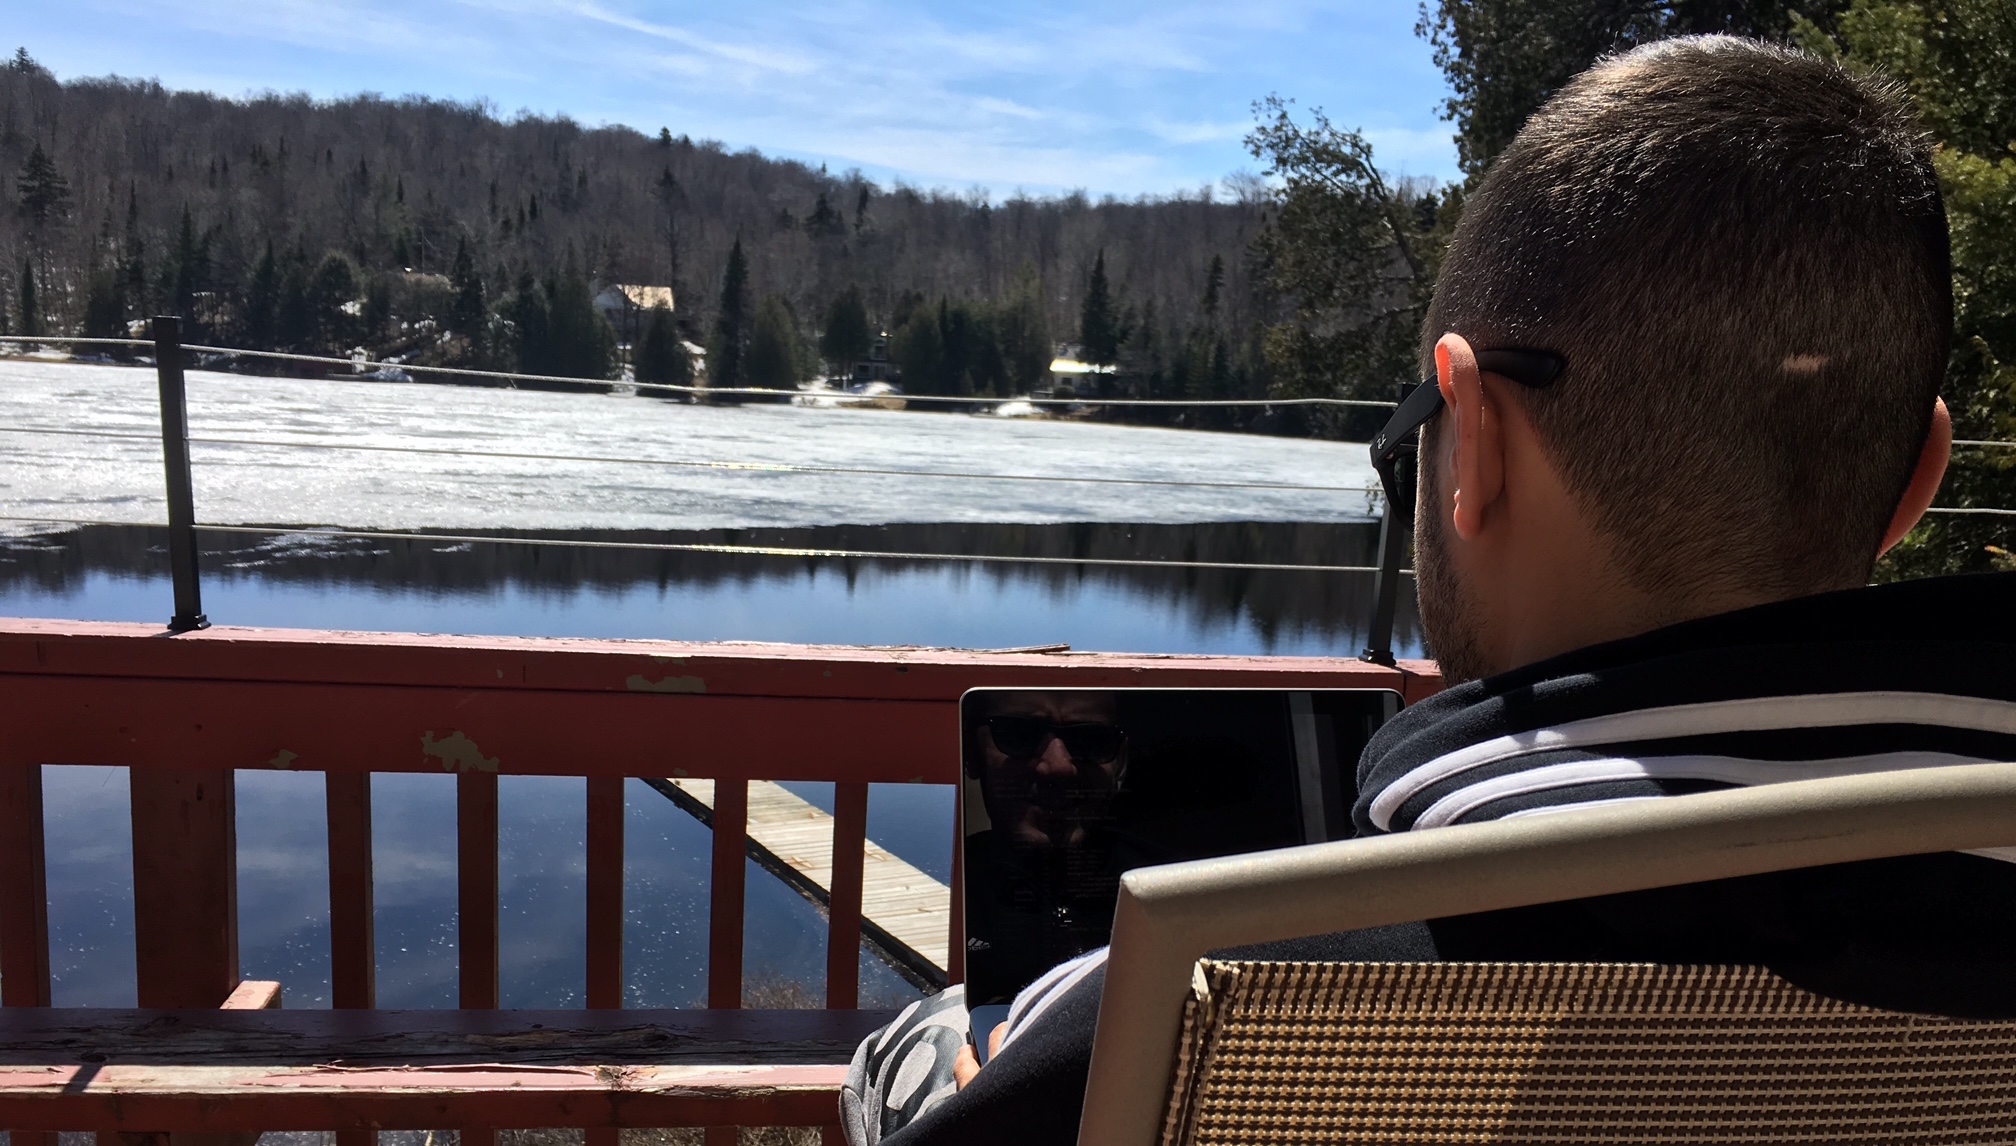
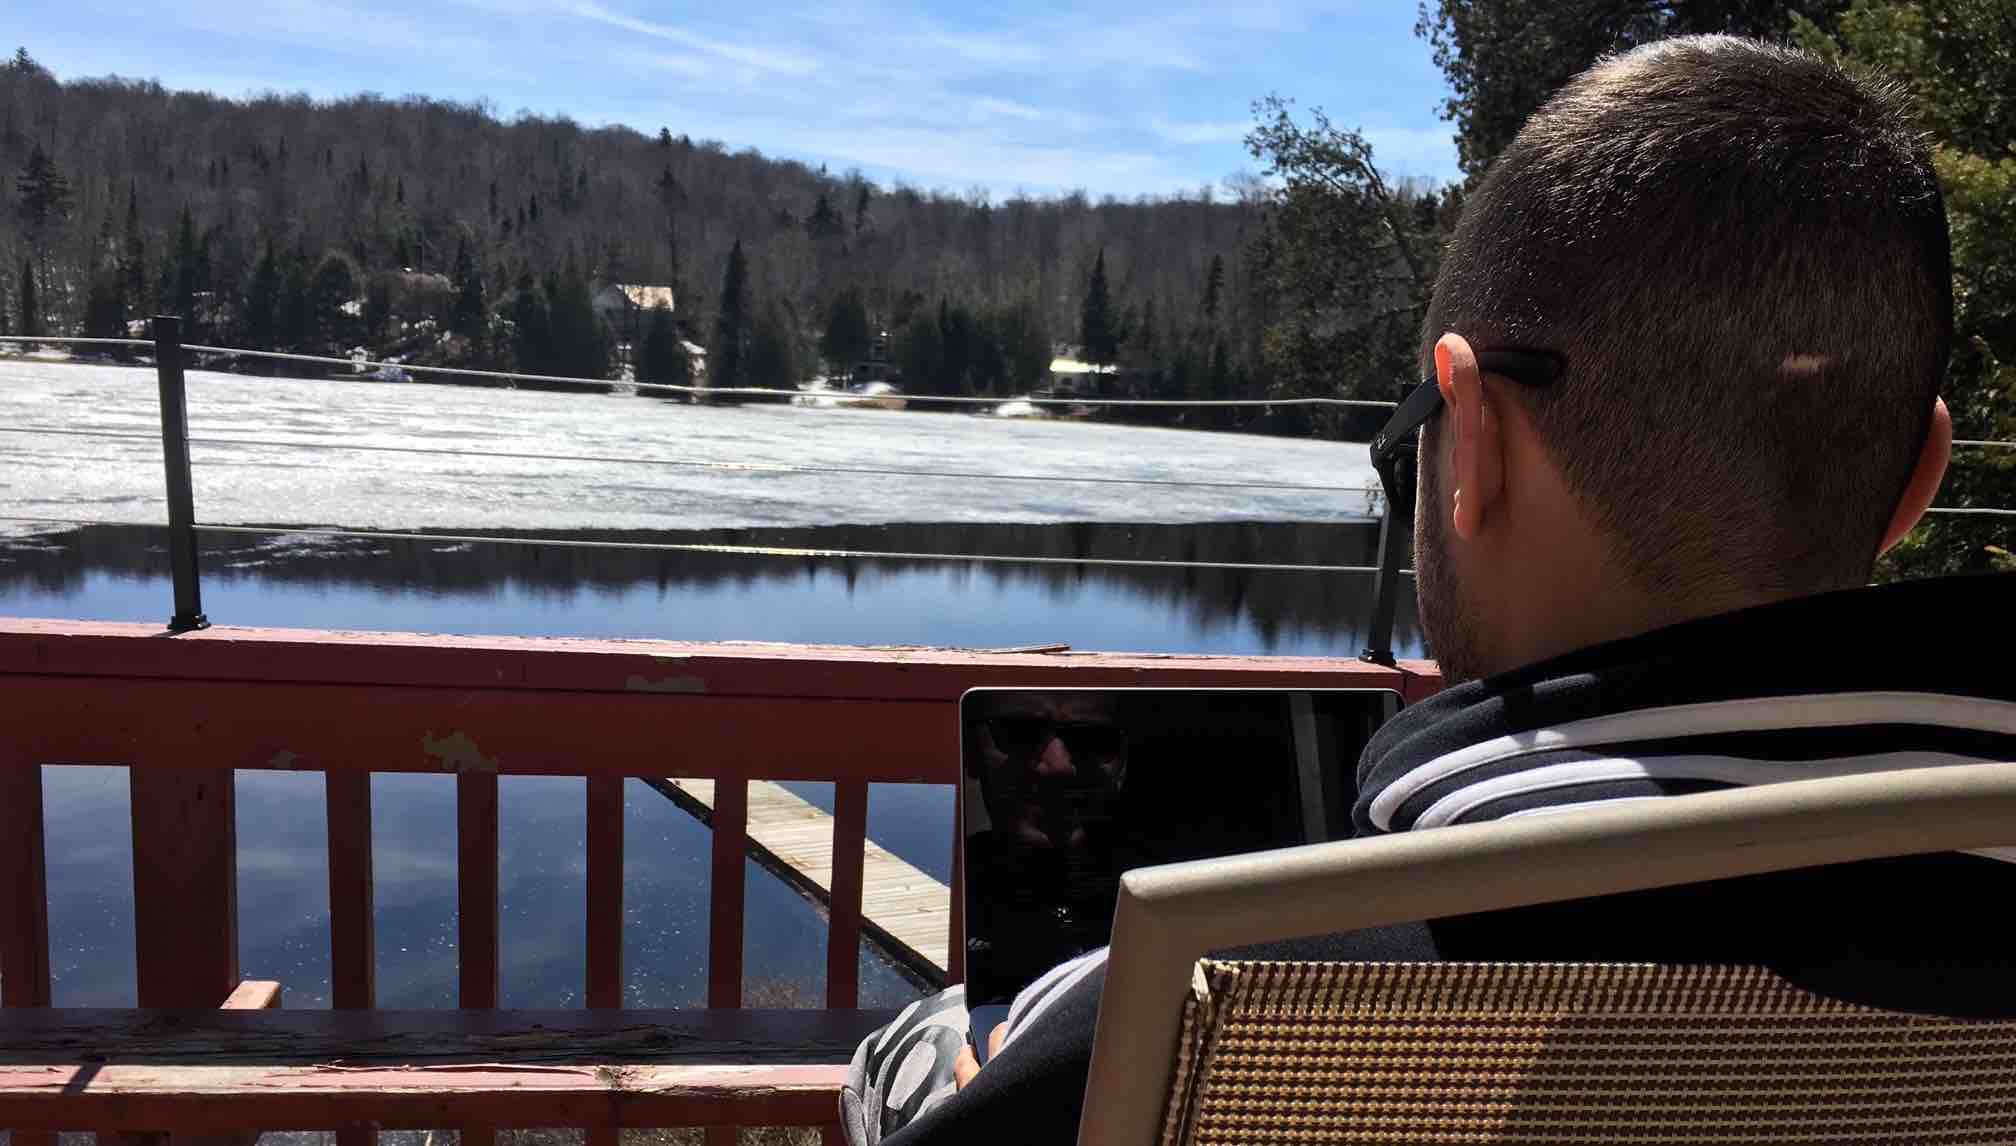
img resizing

diff --git a/js/viewport.js b/js/viewport.js
@@ -1,0 +1,182 @@
+/**
+ * @author  Mudit Ameta
+ * @license https://github.com/zeusdeux/isInViewport/blob/master/license.md MIT
+ */
+(function($, window) {
+
+  // polyfilling trim for ie < 9. sigh ;-;
+  if (!String.prototype.hasOwnProperty('trim')) {
+    String.prototype.trim = function() {
+      return this.replace(/^\s*(.*?)\s*$/, '$1');
+    };
+  }
+
+
+  // lets you chain any arbitrary function or an array of functions and returns a jquery object
+  var run = function(args) {
+    if (arguments.length === 1 && typeof args === 'function')
+      args = [args];
+
+    if (!(args instanceof Array))
+      throw new SyntaxError('isInViewport: Argument(s) passed to .do/.run should be a function or an array of functions');
+
+    for (var i = 0; i < args.length; i++) {
+      if (typeof args[i] !== 'function') {
+        console.warn('isInViewport: Argument(s) passed to .do/.run should be a function or an array of functions');
+        console.warn('isInViewport: Ignoring non-function values in array and moving on');
+        continue;
+      }
+      for (var j = 0; j < this.length; j++)
+        args[i].call($(this[j]));
+    }
+    return this;
+  };
+
+
+  // do is a reserved word and hence using it as a property throws on some browsers
+  // it is now aliased as $.fn.run
+  // deprecate $.fn.do (2.3.0)
+  $.fn['do'] = function(args) {
+    console.warn('isInViewport: .do is deprecated as it causes issues in IE and some browsers since it\'s a reserved word. Use $.fn.run instead i.e., $(el).run(fn).');
+    return run(args);
+  };
+  $.fn.run = run;
+
+
+  // gets the width of the scrollbar
+  function getScrollbarWidth(viewport) {
+    var scrollBarWidth;
+
+    // append a div that has 100% width to get true width of viewport
+    var el = $('<div></div>').css({
+      'width': '100%'
+    });
+    viewport.append(el);
+
+    // subtract true width from the viewport width which is inclusive
+    // of scrollbar by default
+    scrollBarWidth = viewport.width() - el.width();
+
+    // remove our element from DOM
+    el.remove();
+    return scrollBarWidth;
+  }
+
+
+  // Returns true if DOM element `element` is in viewport
+  function isInViewport(element, options) {
+    var boundingRect  = element.getBoundingClientRect();
+    var top           = boundingRect.top;
+    var bottom        = boundingRect.bottom;
+    var left          = boundingRect.left;
+    var right         = boundingRect.right;
+    var settings      = $.extend({
+      'tolerance': 0,
+      'viewport': window
+    }, options);
+    var isVisibleFlag = false;
+    var $viewport     = settings.viewport.jquery ? settings.viewport : $(settings.viewport);
+
+    if (!$viewport.length) {
+      console.warn('isInViewport: The viewport selector you have provided matches no element on page.');
+      console.warn('isInViewport: Defaulting to viewport as window');
+      $viewport = $(window);
+    }
+
+    var $viewportHeight = $viewport.height();
+    var $viewportWidth  = $viewport.width();
+    var typeofViewport  = $viewport[0].toString();
+
+    // if the viewport is other than window recalculate the top,
+    // bottom,left and right wrt the new viewport
+    // the [object DOMWindow] check is for window object type in PhantomJS
+    if ($viewport[0] !== window && typeofViewport !== '[object Window]' && typeofViewport !== '[object DOMWindow]') {
+      // Use getBoundingClientRect() instead of $.Offset()
+      // since the original top/bottom positions are calculated relative to browser viewport and not document
+      var viewportRect = $viewport[0].getBoundingClientRect();
+
+      // recalculate these relative to viewport
+      top    = top - viewportRect.top;
+      bottom = bottom - viewportRect.top;
+      left   = left - viewportRect.left;
+      right  = right - viewportRect.left;
+
+      // get the scrollbar width from cache or calculate it
+      isInViewport.scrollBarWidth = isInViewport.scrollBarWidth || getScrollbarWidth($viewport);
+
+      // remove the width of the scrollbar from the viewport width
+      $viewportWidth -= isInViewport.scrollBarWidth;
+    }
+
+    // handle falsy, non-number and non-integer tolerance value
+    // same as checking using isNaN and then setting to 0
+    // bitwise operators deserve some love too you know
+    settings.tolerance = ~~Math.round(parseFloat(settings.tolerance));
+
+    if (settings.tolerance < 0)
+      settings.tolerance = $viewportHeight + settings.tolerance; // viewport height - tol
+
+    // the element is NOT in viewport iff it is completely out of
+    // viewport laterally or if it is completely out of the tolerance
+    // region. Therefore, if it is partially in view then it is considered
+    // to be in the viewport and hence true is returned. Because we have adjusted
+    // the left/right positions relative to the viewport, we should check the
+    // element's right against the viewport's 0 (left side), and the element's
+    // left against the viewport's width to see if it is outside of the viewport.
+
+    if (right <= 0 || left >= $viewportWidth)
+      return isVisibleFlag;
+
+    // if the element is bound to some tolerance
+    isVisibleFlag = settings.tolerance ? top <= settings.tolerance && bottom >= settings.tolerance : bottom > 0 && top <= $viewportHeight;
+
+    return isVisibleFlag;
+  }
+
+
+  // get the selector args from the args string proved by Sizzle
+  var getSelectorArgs = function(argsString) {
+    if (argsString) {
+      var args = argsString.split(',');
+
+      // when user only gives viewport and no tolerance
+      if (args.length === 1 && isNaN(args[0])) {
+        args[1] = args[0];
+        args[0] = void 0;
+      }
+
+      return {
+        tolerance: args[0] ? args[0].trim() : void 0,
+        viewport: args[1] ? $(args[1].trim()) : void 0
+      };
+    }
+    return {};
+  };
+
+
+  // expose isInViewport as a custom pseudo-selector
+  $.extend($.expr[':'], {
+    // if $.expr.createPseudo is available, use it
+    'in-viewport': $.expr.createPseudo ?
+      $.expr.createPseudo(function(argsString) {
+        return function(currElement) {
+          return isInViewport(currElement, getSelectorArgs(argsString));
+        };
+      }) :
+    function(currObj, index, meta) {
+      return isInViewport(currObj, getSelectorArgs(meta[3]));
+    }
+  });
+
+
+  // expose isInViewport as a function too
+  // this lets folks pass around actual objects as options (like custom viewport)
+  // and doesn't tie 'em down to strings. It also prevents isInViewport from
+  // having to look up and wrap the dom element corresponding to the viewport selector
+  $.fn.isInViewport = function(options) {
+    return this.filter(function(i, el) {
+      return isInViewport(el, options);
+    });
+  };
+
+})(jQuery, window);
